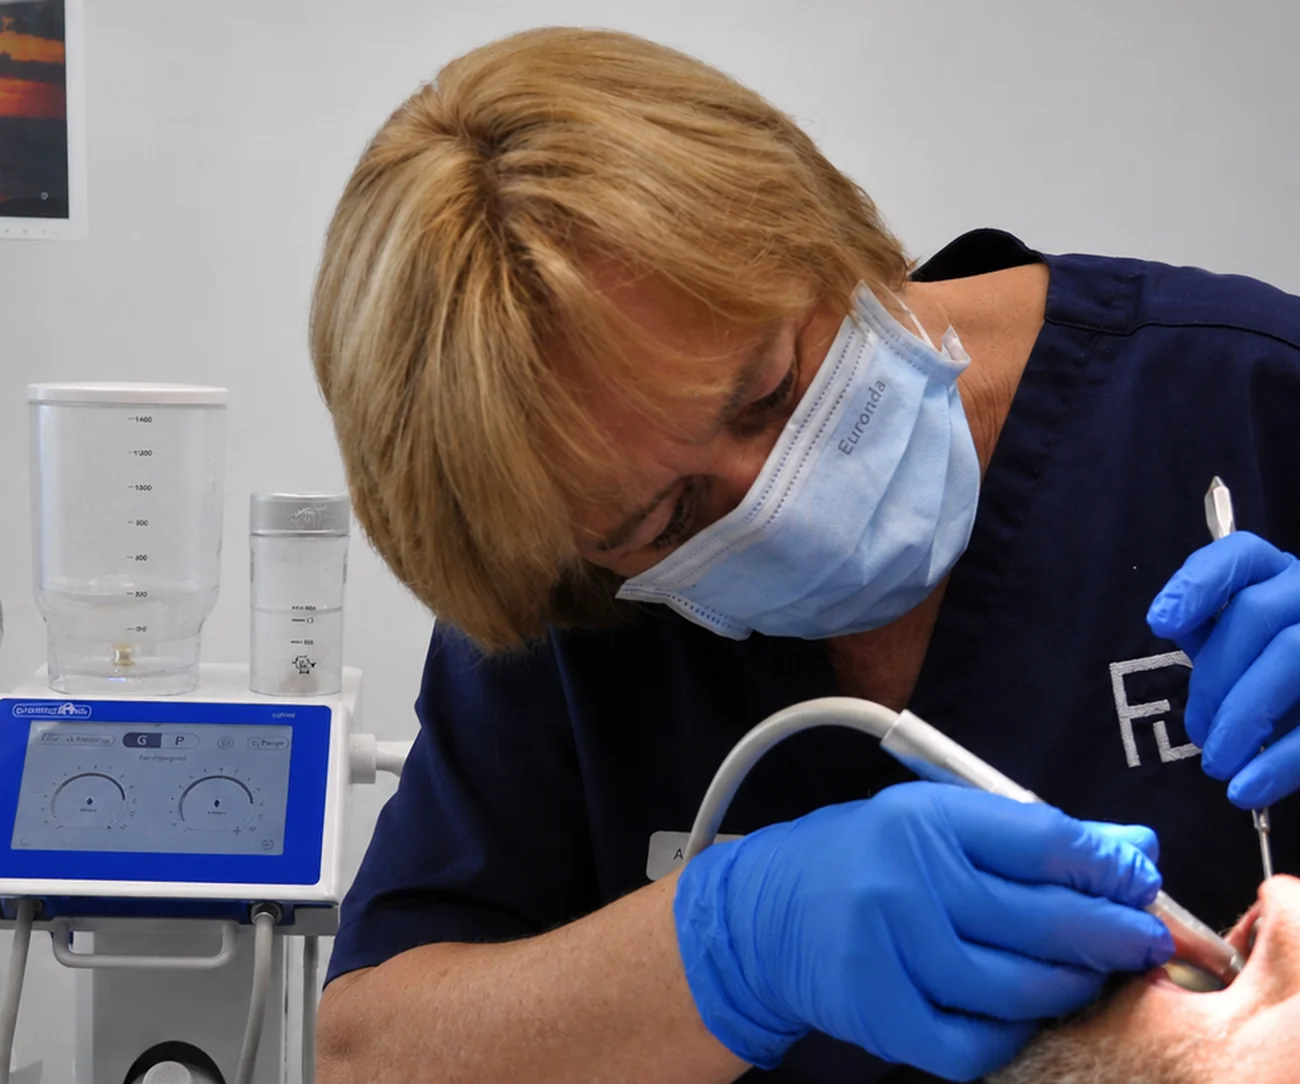
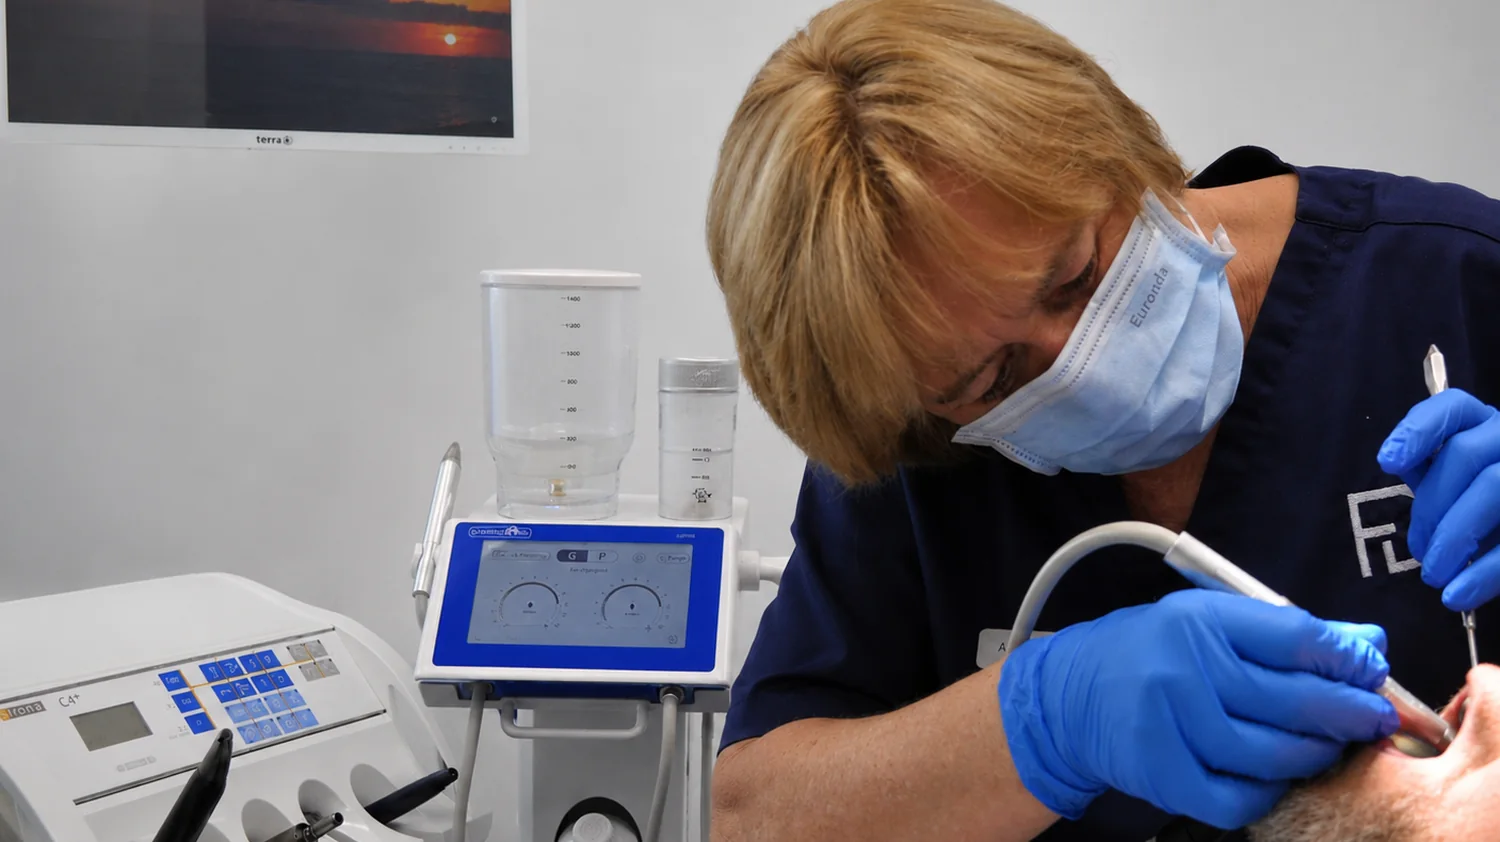
Einblicke: zweites Foto im Querformat, gesamte Szene sichtbar
Ausschnitt auf 16:9 geaendert und ueber die volle Spaltenbreite gesetzt.
So sind Behandlungseinheit, Kombinationsgeraet und die Behandlung selbst
in einem Bild zu sehen.

Claude-Session: https://claude.ai/code/session_01Qiqe53JXLLGf3snUVpaE1v

diff --git a/news.html b/news.html
@@ -231,9 +231,9 @@ a.pp:hover{color:#8F7440 !important}
           <p style="margin:0;font-size:15.5px;line-height:1.75;color:#4B5875">Für die Nachsorge nach einer Parodontitisbehandlung gilt allerdings eine Besonderheit. Eine systematische Übersichtsarbeit mit Metaanalyse von acht randomisierten Studien kommt zu dem Ergebnis, dass Pulverstrahlreinigung mit Erythritol in dieser Phase die Hand- und Ultraschallinstrumentierung ersetzen kann, bei vergleichbaren Werten für Taschentiefe und Blutung. Die Behandelten empfanden dabei weniger Schmerzen (Abdulbaqi et al. 2021).</p>
           <p style="margin:0;font-size:15.5px;line-height:1.75;color:#4B5875">In unserer Praxis kombinieren wir beides in der Regel innerhalb einer Sitzung: zuerst die Entfernung harter Auflagerungen, danach die Pulverstrahlreinigung.</p>
 
-          <figure style="margin:6px 0 0;display:flex;flex-direction:column;align-items:center;gap:10px">
-            <img src="assets/img-airflow-behandlung.webp?v=3" alt="Anette Gantert bei der professionellen Zahnreinigung mit dem Pulverstrahlgerät" loading="lazy" style="width:100%;max-width:600px;height:auto;display:block;border-radius:16px">
-            <figcaption style="font-size:13.5px;line-height:1.6;color:#8A93A6;font-style:italic;max-width:600px;text-align:center">Anette Gantert bei der Prophylaxe. Ultraschall und Pulverstrahl stehen bei uns direkt nebeneinander, so lassen sich harte und weiche Beläge in einem Termin entfernen.</figcaption>
+          <figure style="margin:6px 0 0;display:flex;flex-direction:column;gap:10px">
+            <img src="assets/img-airflow-behandlung.webp?v=4" alt="Anette Gantert bei der professionellen Zahnreinigung mit dem Pulverstrahlgerät" loading="lazy" style="width:100%;height:auto;display:block;border-radius:16px">
+            <figcaption style="font-size:13.5px;line-height:1.6;color:#8A93A6;font-style:italic">Anette Gantert bei der Prophylaxe. Ultraschall und Pulverstrahl stehen bei uns direkt nebeneinander, so lassen sich harte und weiche Beläge in einem Termin entfernen.</figcaption>
           </figure>
 
           <h3 style="margin:6px 0 0;font-family:'Quicksand',sans-serif;font-size:20px;font-weight:600;color:#2C4170">Schädigt Airflow den Zahnschmelz?</h3>
